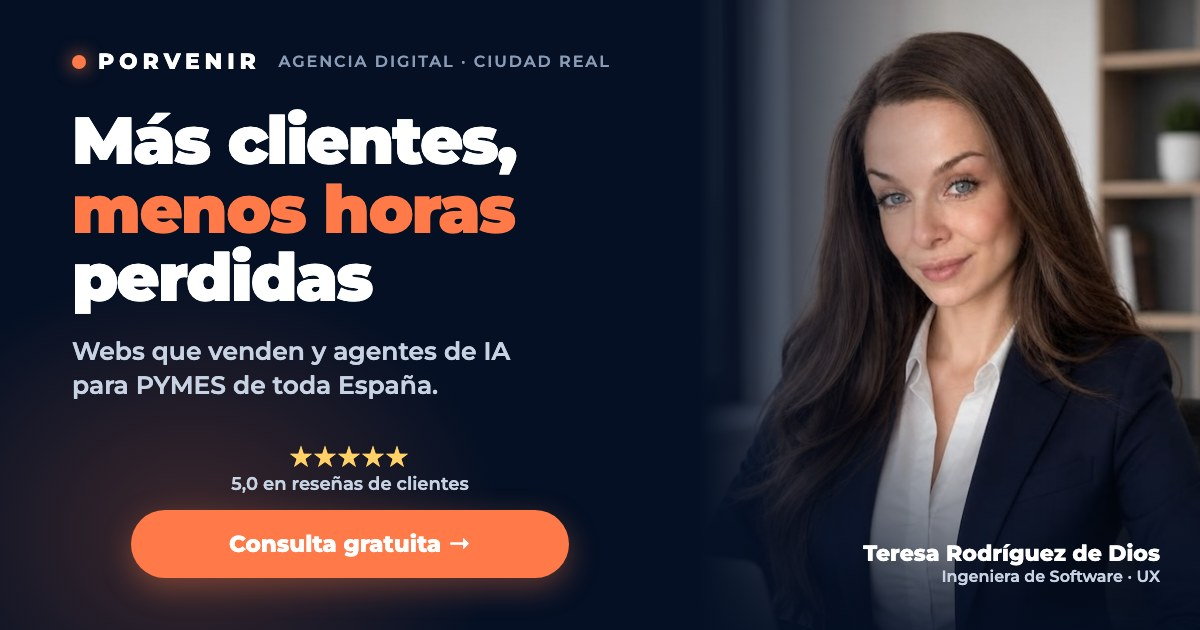
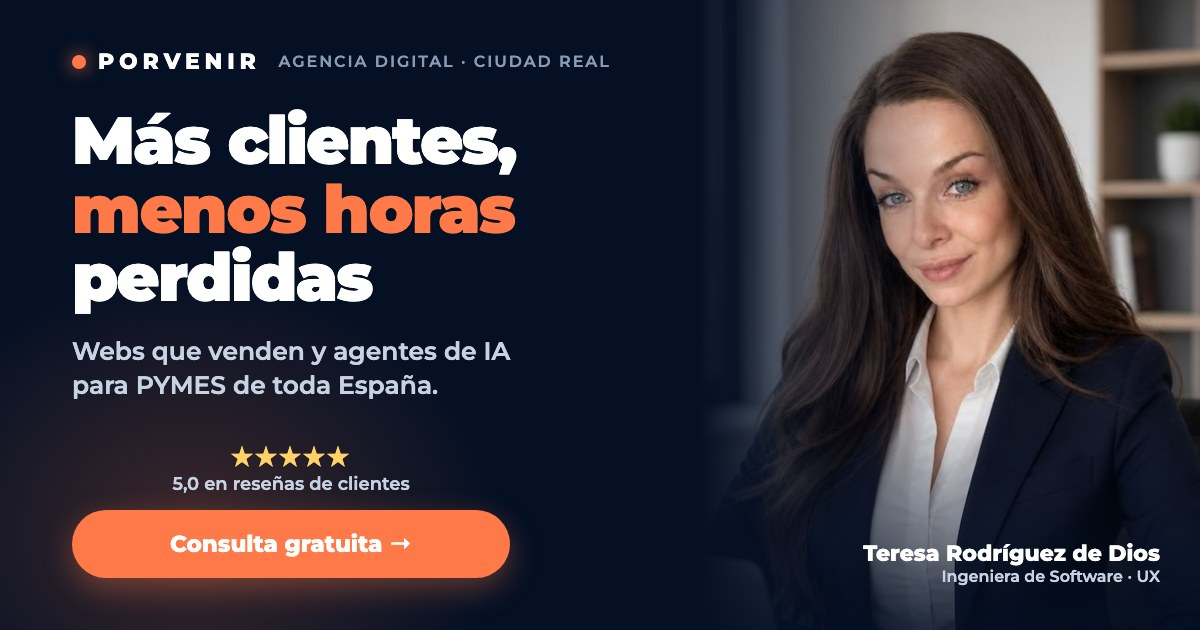
Actualizar imagen de previsualización y su texto alternativo

Changed region(s): [[0.0308, 0.7841, 0.4933, 0.9651], [0.1233, 0.6937, 0.4008, 0.7841]]

diff --git a/pages/desarrollo-web-ciudad-real.html b/pages/desarrollo-web-ciudad-real.html
@@ -14,7 +14,7 @@
     <meta property="og:image" content="https://www.porveniragenciadigital.com/assets/img/og-social-share.jpg">
     <meta property="og:image:width" content="1200">
     <meta property="og:image:height" content="630">
-    <meta property="og:image:alt" content="Teresa Rodríguez de Dios, de Porvenir Agencia Digital: más clientes y menos horas perdidas con webs que venden y chatbots con IA para PYMES">
+    <meta property="og:image:alt" content="Teresa Rodríguez de Dios, de Porvenir Agencia Digital: más clientes y menos horas perdidas con webs que venden y agentes de IA para PYMES">
     <meta name="twitter:card" content="summary_large_image">
     <meta name="twitter:image" content="https://www.porveniragenciadigital.com/assets/img/og-social-share.jpg">
     <script type="application/ld+json">{"@context":"https://schema.org","@type":"BreadcrumbList","itemListElement":[{"@type":"ListItem","position":1,"name":"Inicio","item":"https://www.porveniragenciadigital.com/"},{"@type":"ListItem","position":2,"name":"Desarrollo Web Ciudad Real","item":"https://www.porveniragenciadigital.com/pages/desarrollo-web-ciudad-real.html"}]}</script>

diff --git a/pages/apps-moviles-ciudad-real.html b/pages/apps-moviles-ciudad-real.html
@@ -14,7 +14,7 @@
     <meta property="og:image" content="https://www.porveniragenciadigital.com/assets/img/og-social-share.jpg">
     <meta property="og:image:width" content="1200">
     <meta property="og:image:height" content="630">
-    <meta property="og:image:alt" content="Teresa Rodríguez de Dios, de Porvenir Agencia Digital: más clientes y menos horas perdidas con webs que venden y chatbots con IA para PYMES">
+    <meta property="og:image:alt" content="Teresa Rodríguez de Dios, de Porvenir Agencia Digital: más clientes y menos horas perdidas con webs que venden y agentes de IA para PYMES">
     <meta name="twitter:card" content="summary_large_image">
     <meta name="twitter:image" content="https://www.porveniragenciadigital.com/assets/img/og-social-share.jpg">
     <script type="application/ld+json">{"@context":"https://schema.org","@type":"BreadcrumbList","itemListElement":[{"@type":"ListItem","position":1,"name":"Inicio","item":"https://www.porveniragenciadigital.com/"},{"@type":"ListItem","position":2,"name":"Apps Móviles Ciudad Real","item":"https://www.porveniragenciadigital.com/pages/apps-moviles-ciudad-real.html"}]}</script>

diff --git a/pages/diseno-web-ciudad-real.html b/pages/diseno-web-ciudad-real.html
@@ -14,7 +14,7 @@
     <meta property="og:image" content="https://www.porveniragenciadigital.com/assets/img/og-social-share.jpg">
     <meta property="og:image:width" content="1200">
     <meta property="og:image:height" content="630">
-    <meta property="og:image:alt" content="Teresa Rodríguez de Dios, de Porvenir Agencia Digital: más clientes y menos horas perdidas con webs que venden y chatbots con IA para PYMES">
+    <meta property="og:image:alt" content="Teresa Rodríguez de Dios, de Porvenir Agencia Digital: más clientes y menos horas perdidas con webs que venden y agentes de IA para PYMES">
     <meta name="twitter:card" content="summary_large_image">
     <meta name="twitter:image" content="https://www.porveniragenciadigital.com/assets/img/og-social-share.jpg">
     <script type="application/ld+json">{"@context":"https://schema.org","@type":"BreadcrumbList","itemListElement":[{"@type":"ListItem","position":1,"name":"Inicio","item":"https://www.porveniragenciadigital.com/"},{"@type":"ListItem","position":2,"name":"Diseño Web Ciudad Real","item":"https://www.porveniragenciadigital.com/pages/diseno-web-ciudad-real.html"}]}</script>

diff --git a/pages/agencia-ia-ciudad-real.html b/pages/agencia-ia-ciudad-real.html
@@ -15,7 +15,7 @@
     <meta property="og:image" content="https://www.porveniragenciadigital.com/assets/img/og-social-share.jpg">
     <meta property="og:image:width" content="1200">
     <meta property="og:image:height" content="630">
-    <meta property="og:image:alt" content="Teresa Rodríguez de Dios, de Porvenir Agencia Digital: más clientes y menos horas perdidas con webs que venden y chatbots con IA para PYMES">
+    <meta property="og:image:alt" content="Teresa Rodríguez de Dios, de Porvenir Agencia Digital: más clientes y menos horas perdidas con webs que venden y agentes de IA para PYMES">
     <meta name="twitter:card" content="summary_large_image">
     <meta name="twitter:image" content="https://www.porveniragenciadigital.com/assets/img/og-social-share.jpg">
     <script type="application/ld+json">{"@context":"https://schema.org","@type":"BreadcrumbList","itemListElement":[{"@type":"ListItem","position":1,"name":"Inicio","item":"https://www.porveniragenciadigital.com/"},{"@type":"ListItem","position":2,"name":"Agencia IA Ciudad Real","item":"https://www.porveniragenciadigital.com/pages/agencia-ia-ciudad-real.html"}]}</script>

diff --git a/index.html b/index.html
@@ -24,7 +24,7 @@
     <meta property="og:image" content="https://www.porveniragenciadigital.com/assets/img/og-social-share.jpg">
     <meta property="og:image:width" content="1200">
     <meta property="og:image:height" content="630">
-    <meta property="og:image:alt" content="Teresa Rodríguez de Dios, de Porvenir Agencia Digital: más clientes y menos horas perdidas con webs que venden y chatbots con IA para PYMES">
+    <meta property="og:image:alt" content="Teresa Rodríguez de Dios, de Porvenir Agencia Digital: más clientes y menos horas perdidas con webs que venden y agentes de IA para PYMES">
     <meta name="twitter:card" content="summary_large_image">
     <meta name="twitter:title" content="Porvenir Agencia Digital en Ciudad Real | Webs, IA y Apps">
     <meta name="twitter:description"

diff --git a/pages/formacion-ia-empresas-ciudad-real.html b/pages/formacion-ia-empresas-ciudad-real.html
@@ -15,7 +15,7 @@
     <meta property="og:image" content="https://www.porveniragenciadigital.com/assets/img/og-social-share.jpg">
     <meta property="og:image:width" content="1200">
     <meta property="og:image:height" content="630">
-    <meta property="og:image:alt" content="Teresa Rodríguez de Dios, de Porvenir Agencia Digital: más clientes y menos horas perdidas con webs que venden y chatbots con IA para PYMES">
+    <meta property="og:image:alt" content="Teresa Rodríguez de Dios, de Porvenir Agencia Digital: más clientes y menos horas perdidas con webs que venden y agentes de IA para PYMES">
     <meta name="twitter:card" content="summary_large_image">
     <meta name="twitter:image" content="https://www.porveniragenciadigital.com/assets/img/og-social-share.jpg">
 
